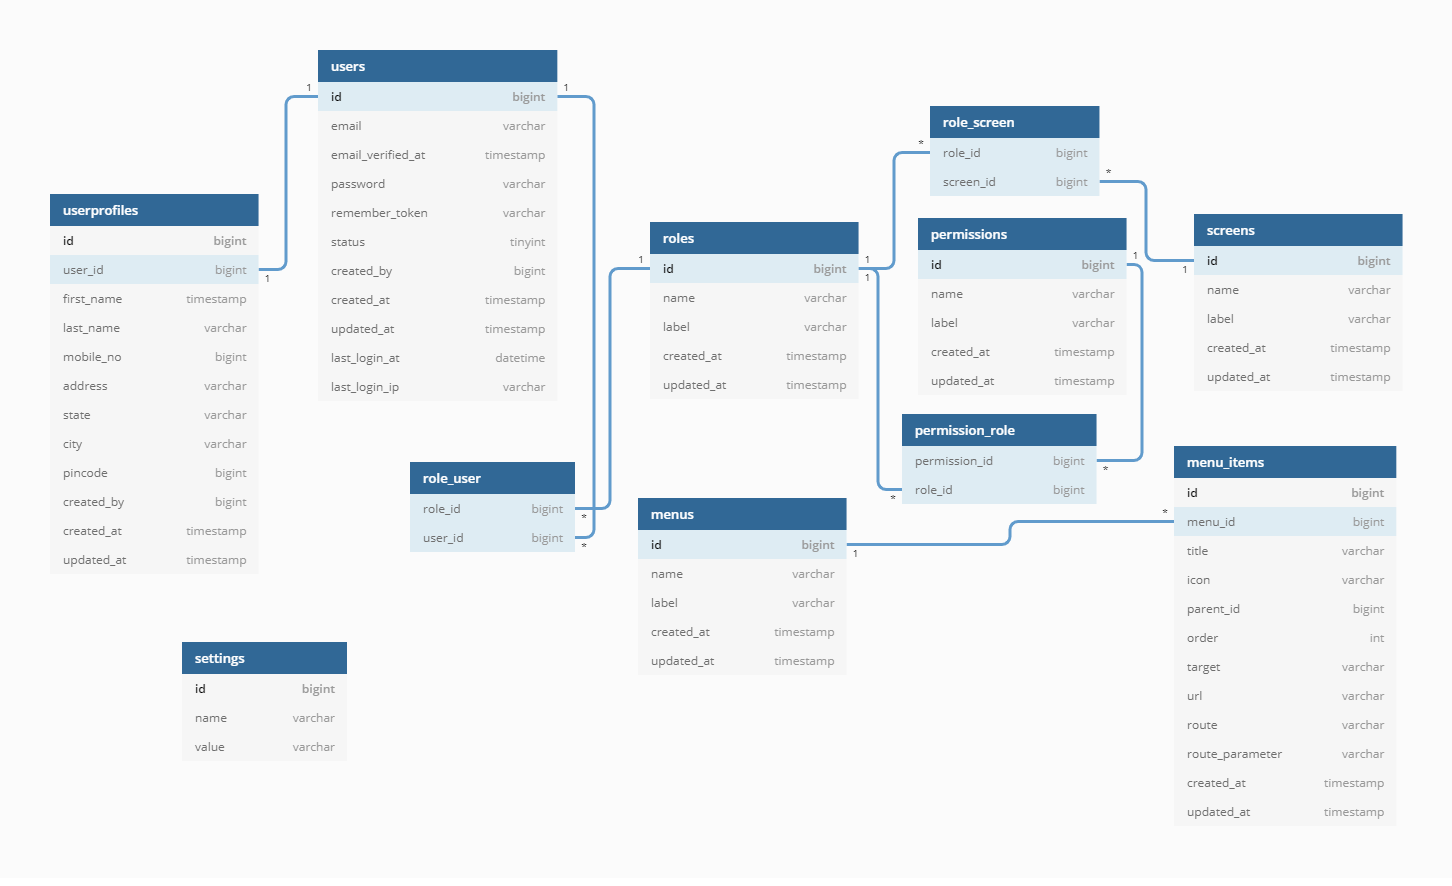
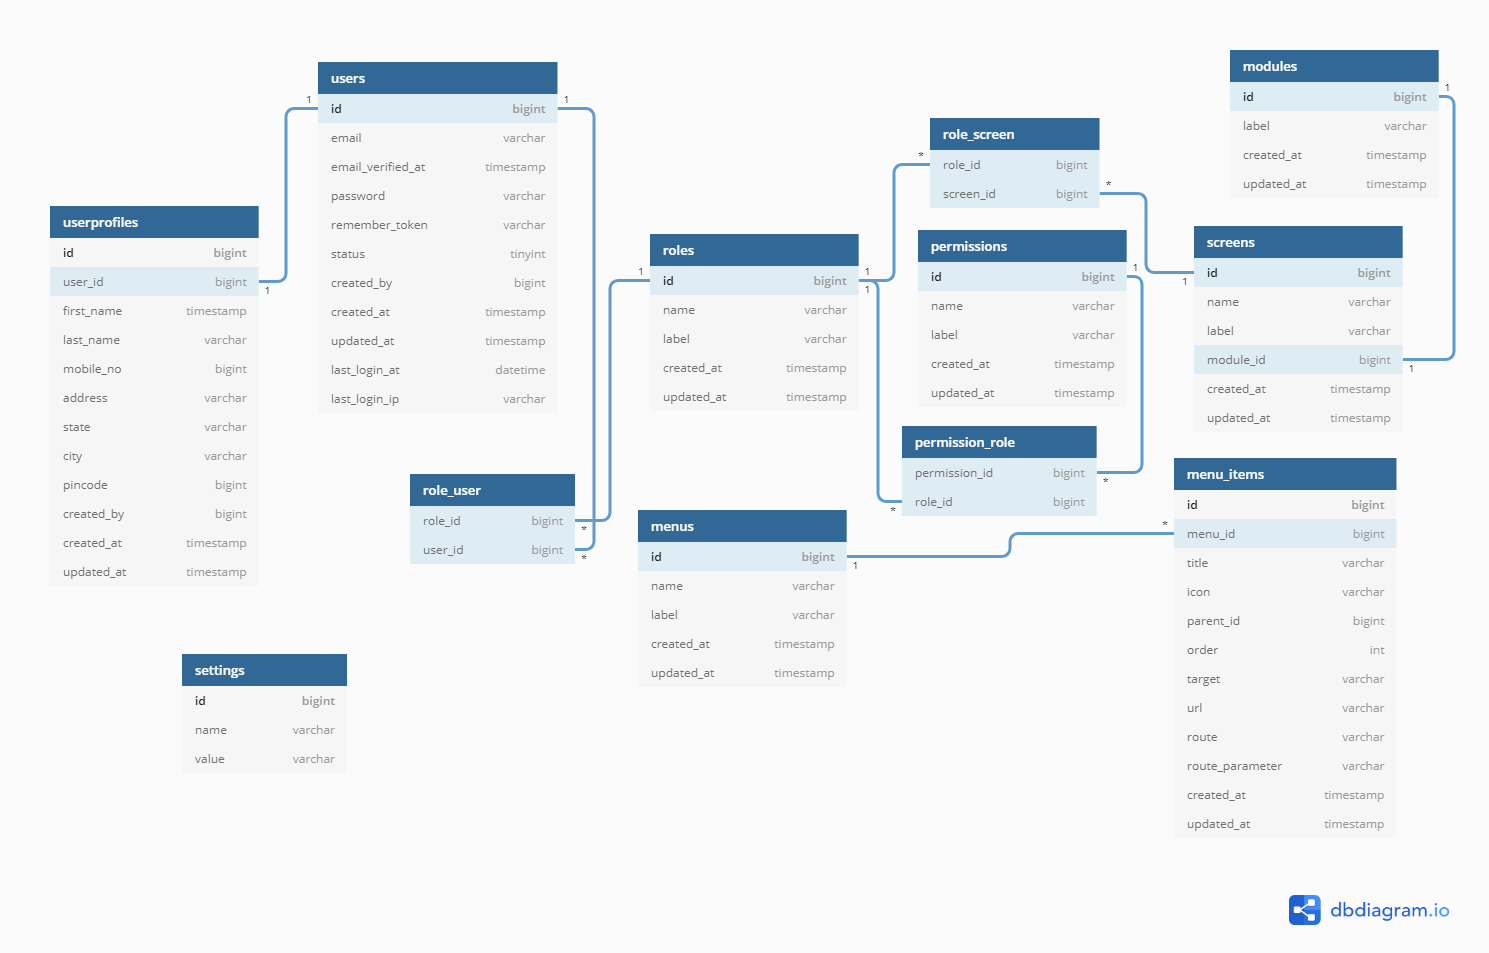
LaraSnap V1.2 DB Schema & Docs Update

diff --git a/larasnap/index.html b/larasnap/index.html
@@ -147,7 +147,7 @@
                               </div>
                               <div id="screens">
                                  <h6>Screens</h6>
-                                 <p>The Screens section allows you to add, edit, delete screens and assign roles to screen.</p>
+                                 <p>The Screens section allows you to add, edit, delete screens, map screen to module and assign roles to screen.</p>
                               </div>
                               <strong>NOTE: <code class="custom">Assigning Roles to Screen</code> is built with 2 way-binding mechanism, you can assign roles to screen (or) screens to role.</strong>
                            </div>
